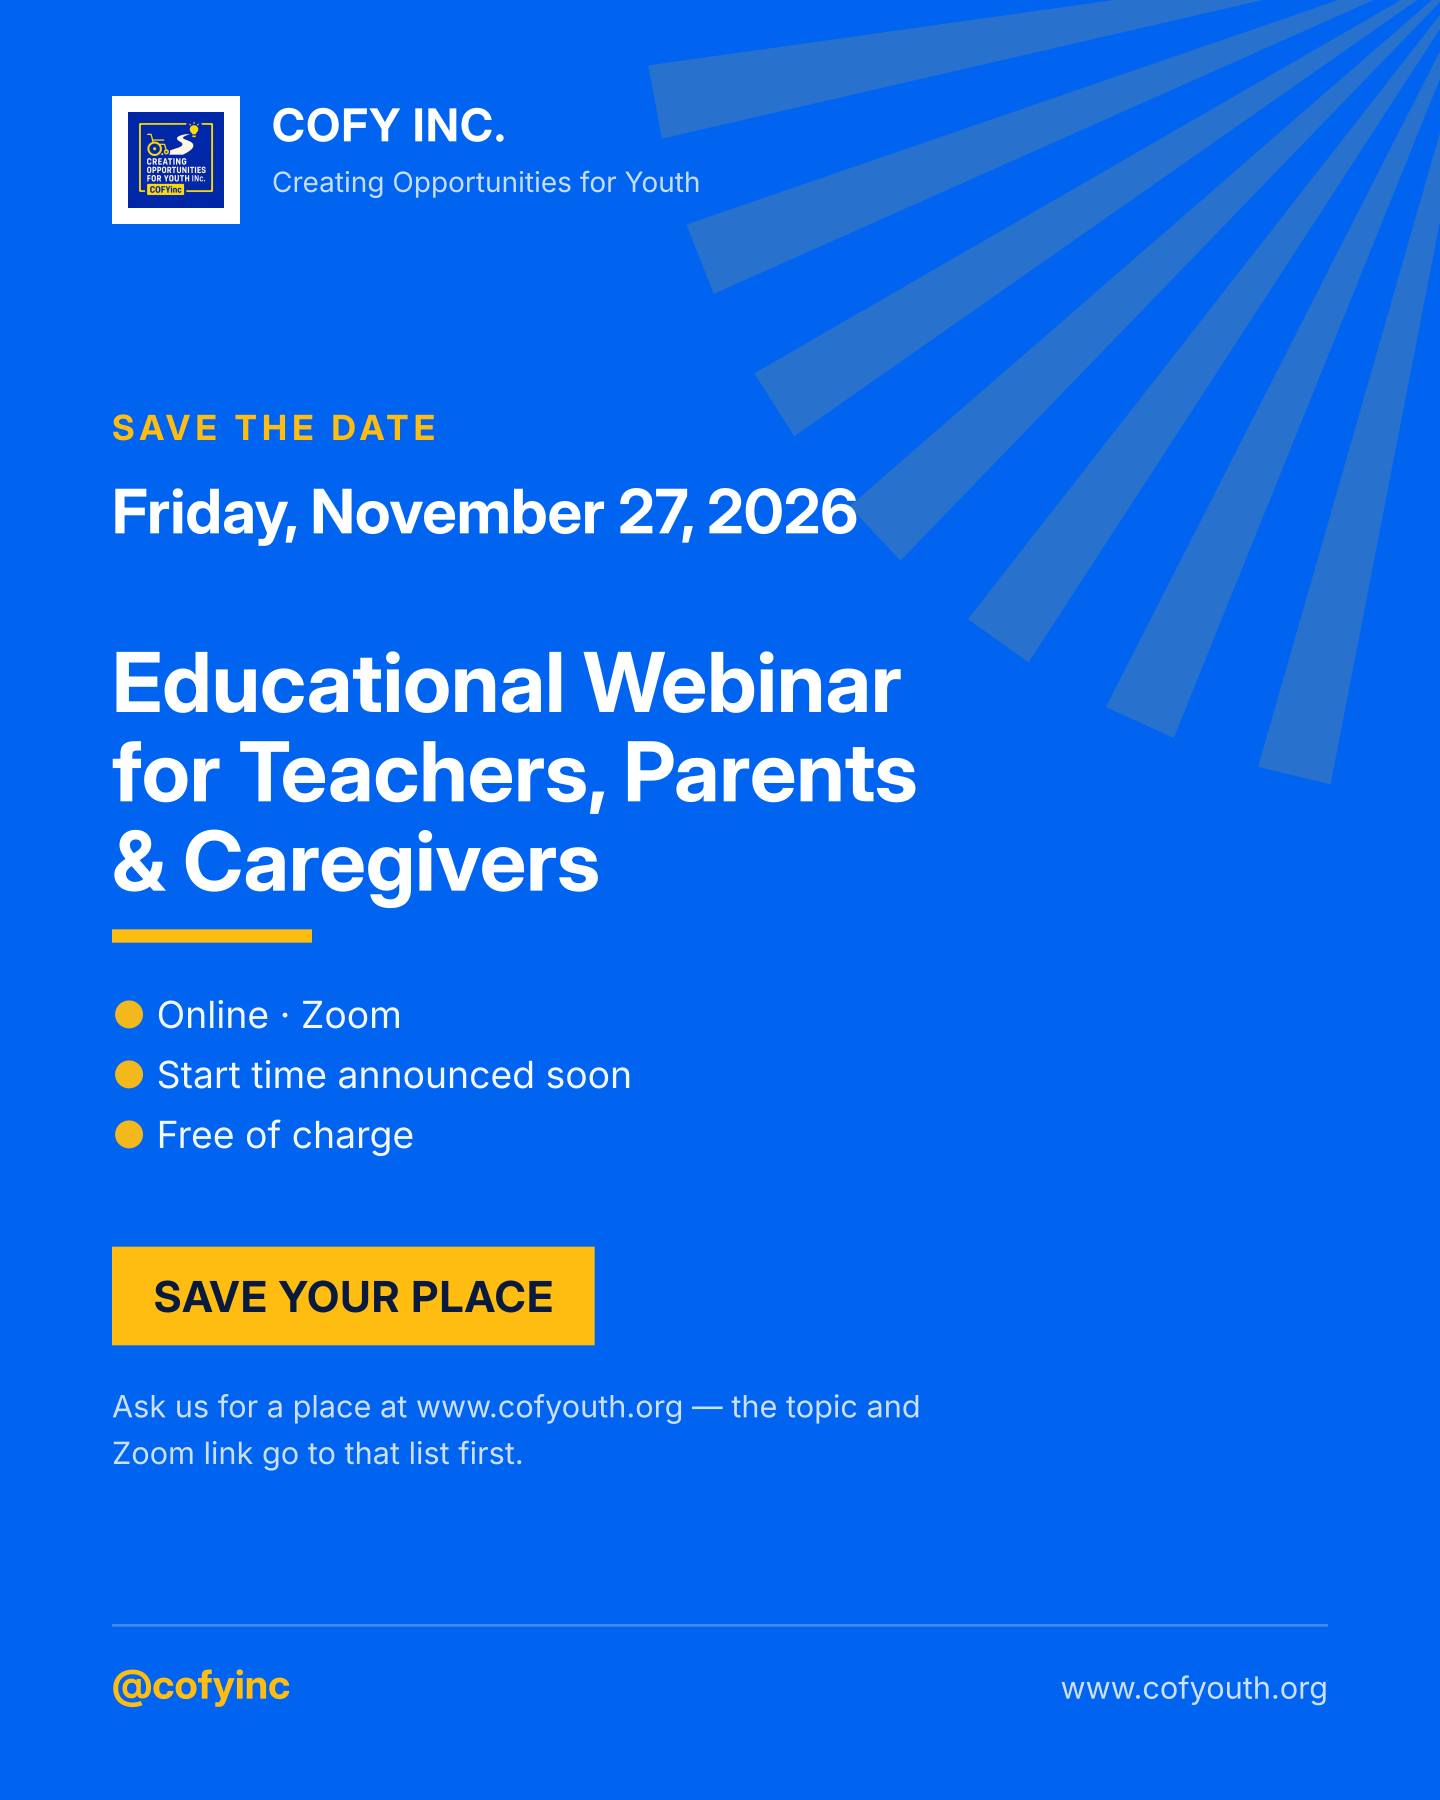
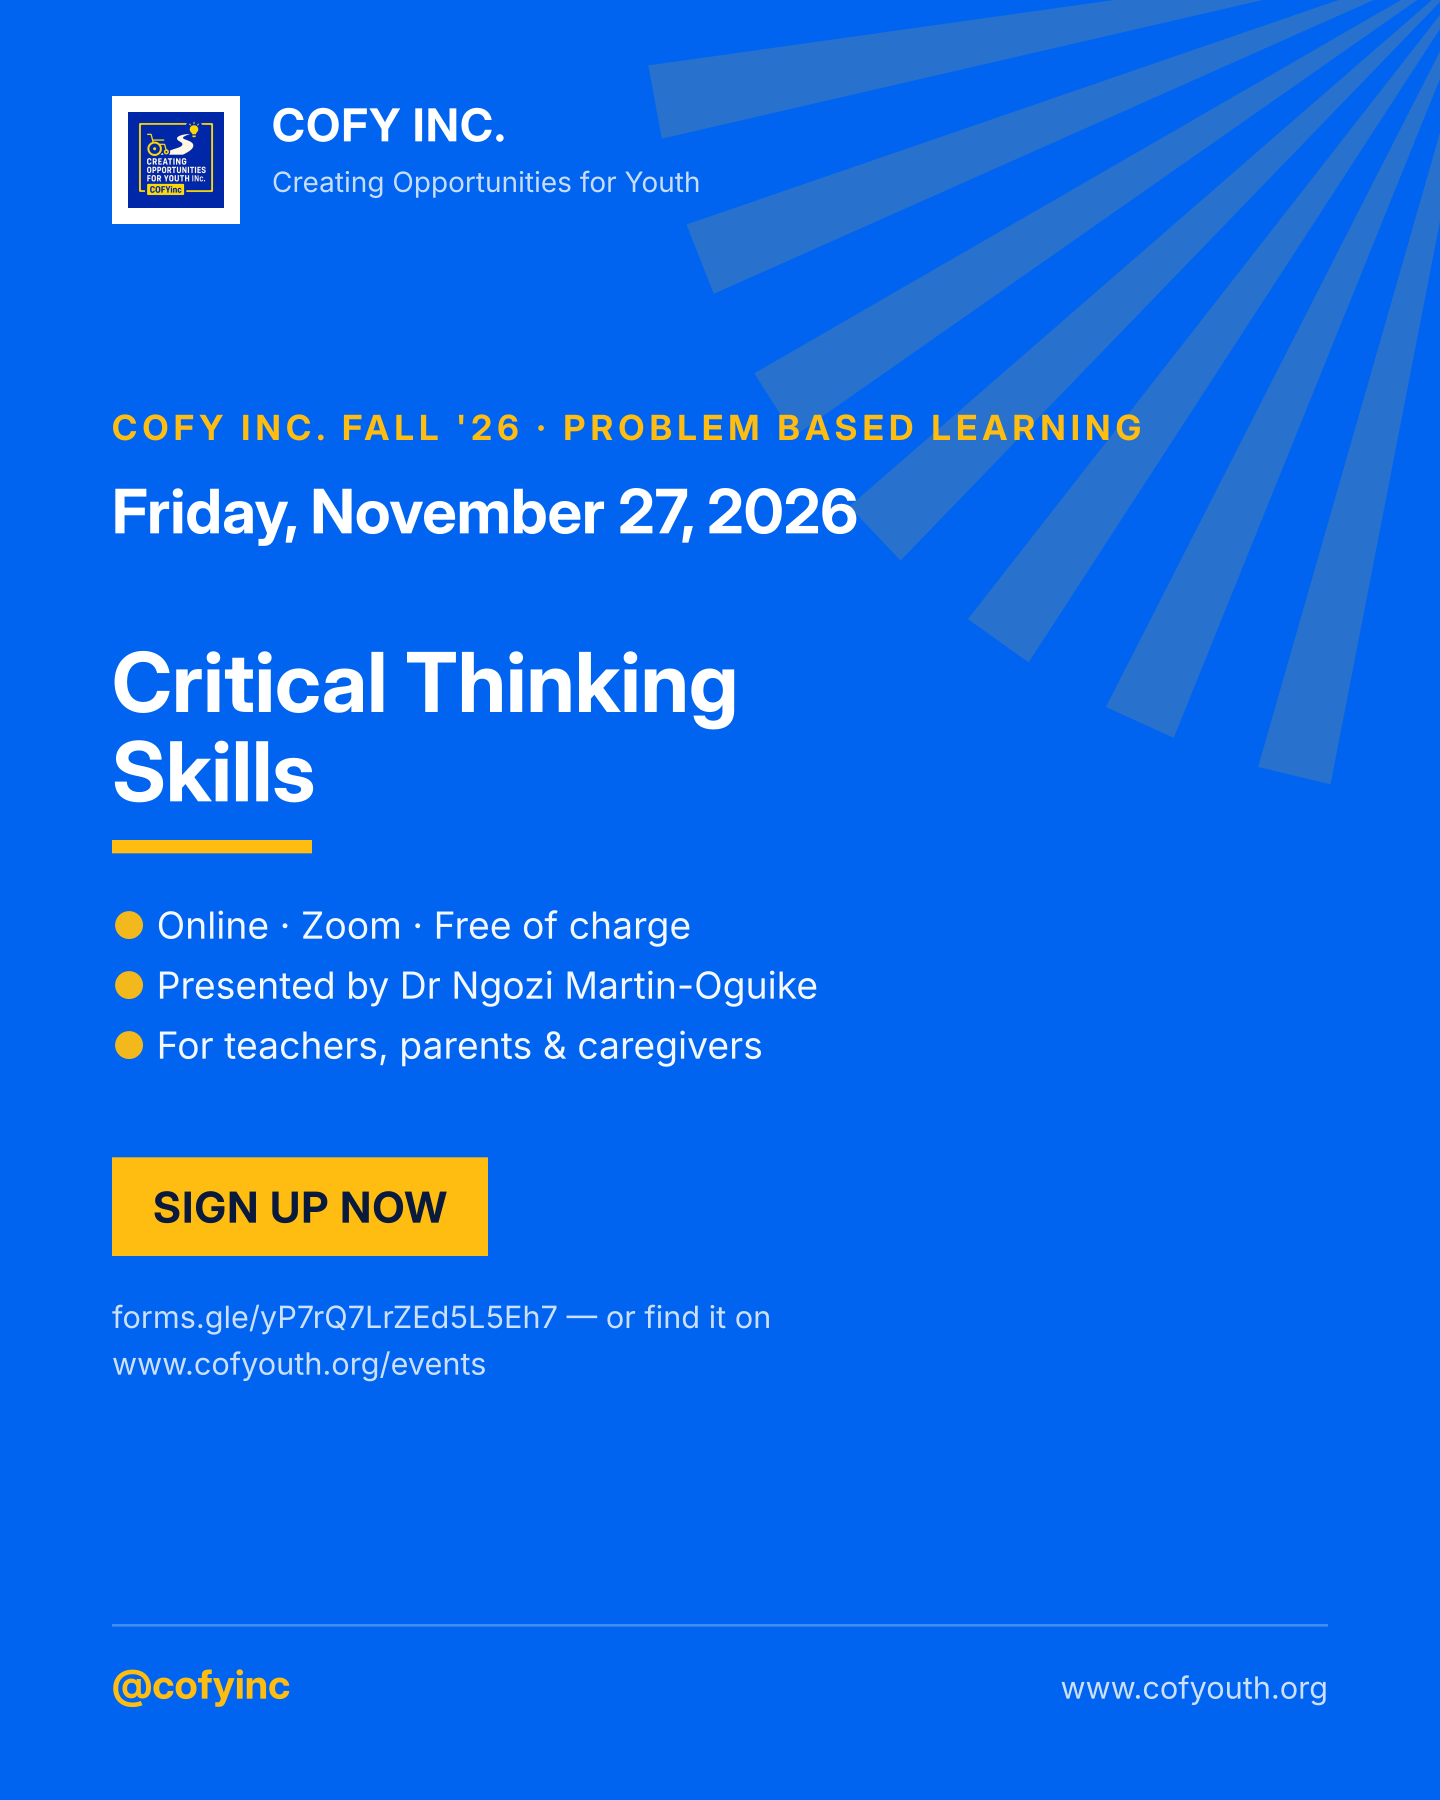
Use the official flyer and details for the Nov 27 webinar (#38)
* Redesign COFY website with interactive multi-page experience

Replace the blank Lovable scaffold with a complete, brand-aligned redesign
for Creating Opportunities for Youth Inc. (COFY).

Brand & design system
- New HSL design tokens built from the logo: royal cobalt blue + golden
  yellow + white, with brand color scale, Poppins/Inter fonts, gradients,
  and fade/float/marquee animations in Tailwind config.
- Logo featured prominently in the hero, header, footer, About page,
  404 page, and as the favicon/OG image.

Pages & routing
- Home: animated hero with floating stat badges, animated impact counters,
  values, programs, media + events previews, testimonials, and CTAs.
- About, Programs, Media Hub, Events, Get Involved, and Contact pages wired
  through a shared Layout (sticky header w/ mobile sheet nav, footer with
  newsletter signup, scroll-to-top).

Requested media & events section
- Media Hub with filterable Daily Vlogs / Blog / News, a featured vlog,
  and rich media cards.
- Events page with Upcoming / Past tabs and date-chip event cards.

Interactivity
- Scroll-reveal animations, animated stat counters, media/event filters,
  an interactive donation card (one-time/monthly, amount picker, live
  impact), and toast-backed newsletter/volunteer/contact forms.

Claude-Session: https://claude.ai/code/session_01UYrY5J4J7BNpy6VLUXWFpk

* Add GitHub Pages deployment workflow

Build and deploy the site to GitHub Pages on every push to main.
[…]

Changed region(s): [[0.0625, 0.3422, 0.625, 0.8089], [0.0625, 0.2178, 0.7812, 0.2489], [0.5, 0.7778, 0.625, 0.8089]]

diff --git a/src/data/events.ts b/src/data/events.ts
@@ -14,6 +14,10 @@ export type COFYEvent = {
   featured?: boolean;
   /** Promo film shown in the lead slot instead of a photo. */
   video?: string;
+  /** The event's own artwork (its flyer), shown in the lead slot. */
+  image?: string;
+  /** Description of that artwork, for people using a screen reader. */
+  imageAlt?: string;
   /**
    * Recap film for an event that has happened, shown as a highlight.
    * A Google Drive embed URL, so the full-resolution footage streams
@@ -120,16 +124,20 @@ export const events: COFYEvent[] = [
   },
   {
     id: "webinar-2026-11-27",
-    title: "Quarterly Educational Webinar for Teachers, Parents & Caregivers",
+    title: "Critical Thinking Skills — Fall '26 Educational Webinar",
     date: "2026-11-27",
     time: "Time to be announced",
     location: "Online (Zoom)",
     venue: "Virtual",
     description:
-      "The next webinar in our quarterly series for the people who support our youth — practical, research-based strategies from experienced educators, for teachers, parents and caregivers. Free of charge, like every COFY event. The session topic, start time and Zoom link are confirmed closer to the date — ask us to be added to the list and we will send them to you first.",
+      "Our Fall '26 educational webinar, presented by Dr Ngozi Martin-Oguike. Theme: Problem Based Learning. Topic: Critical Thinking Skills. Part of our quarterly webinar series for teachers, parents and caregivers, free of charge like every COFY event. Sign up below and we will send you the joining details.",
     category: "Workshop",
     gradient: "from-brand-blue to-brand-blue-dark",
+    registerUrl: "https://forms.gle/yP7rQ7LrZEd5L5Eh7",
     featured: true,
+    image: `${import.meta.env.BASE_URL}media/webinar-2026-11-27.webp`,
+    imageAlt:
+      "COFY Inc. Fall '26 webinar flyer: theme Problem Based Learning, topic Critical Thinking Skills, presented by Dr Ngozi Martin-Oguike, November 27th 2026",
   },
   // Past events
   {

diff --git a/src/components/events/FeaturedEvent.tsx b/src/components/events/FeaturedEvent.tsx
@@ -12,10 +12,11 @@ const categoryPhoto: Record<COFYEvent["category"], PhotoKey> = {
 };
 
 /**
- * Media for the lead event slot: its promo film when it has one,
- * otherwise a photo of that kind of event. The film keeps its own
- * portrait shape and only loads metadata until the visitor plays it,
- * so the page stays light and the audio works when they choose to.
+ * Media for the lead event slot, in order of preference: the event's
+ * promo film, then its own artwork (the flyer), then a photo of that
+ * kind of event. The film keeps its own portrait shape and only loads
+ * metadata until the visitor plays it, so the page stays light and the
+ * audio works when they choose to.
  */
 export function FeaturedEvent({ event }: { event: COFYEvent }) {
   const photo = photos[categoryPhoto[event.category]];
@@ -32,6 +33,22 @@ export function FeaturedEvent({ event }: { event: COFYEvent }) {
           aria-label={`Promotional film for ${event.title}`}
         />
         <Badge className="pointer-events-none absolute left-4 top-4 gap-1.5 border-0 bg-secondary font-bold text-secondary-foreground">
+          Happening next · {event.category}
+        </Badge>
+      </div>
+    );
+  }
+
+  if (event.image) {
+    return (
+      <div className="relative overflow-hidden bg-brand-blue-deep">
+        <img
+          src={event.image}
+          alt={event.imageAlt ?? `Flyer for ${event.title}`}
+          loading="eager"
+          className="aspect-square w-full max-w-full object-cover"
+        />
+        <Badge className="absolute left-4 top-4 gap-1.5 border-0 bg-secondary font-bold text-secondary-foreground">
           Happening next · {event.category}
         </Badge>
       </div>

diff --git a/docs/webinar-2026-11-27-promo.md b/docs/webinar-2026-11-27-promo.md
@@ -1,25 +1,33 @@
-# November 27 webinar — promotion pack
+# Critical Thinking Skills — promotion pack
 
-Everything here is ready to publish **as a save-the-date**. Three details were
-not available when this was written — the session topic, the start time (and
-time zone) and the registration/Zoom link. They are marked `[TOPIC]`,
-`[TIME]` and `[LINK]` below. Fill those three in and the pack is a full
-announcement; nothing else needs rewriting.
+**COFY Inc. Fall '26 Educational Webinar**
+Theme: Problem Based Learning · Topic: Critical Thinking Skills
+Presented by Dr Ngozi Martin-Oguike
+Friday, 27 November 2026 · Online (Zoom) · Free of charge
+Sign-up: <https://forms.gle/yP7rQ7LrZEd5L5Eh7>
+
+The start time is not on the flyer, so nothing here states one. When it is
+set, add it to `time` in `src/data/events.ts` and to the posts below.
 
 ## The graphics
 
+The official flyer is square and is the primary post image on Instagram and
+Facebook. It is on the site as the event's artwork and at
+`https://www.cofyouth.org/media/webinar-2026-11-27.jpg`.
+
+These three are brand-matched companions, mainly for the places a square
+flyer does not fit:
+
 | Where | File | Size |
 |---|---|---|
-| Instagram feed, Threads | `public/media/promo/instagram-4x5.png` | 1080 × 1350 |
-| Facebook, WhatsApp, square posts | `public/media/promo/square-1x1.png` | 1080 × 1080 |
-| LinkedIn, X link card | `public/media/promo/linkedin-16x9.png` | 1200 × 627 |
+| Instagram feed / story backdrop | `public/media/promo/instagram-4x5.png` | 1080 × 1350 |
+| Square alternative | `public/media/promo/square-1x1.png` | 1080 × 1080 |
+| **LinkedIn & X link card** | `public/media/promo/linkedin-16x9.png` | 1200 × 627 |
 
-Once the site is deployed they are also downloadable from any phone at
-`https://www.cofyouth.org/media/promo/instagram-4x5.png` (and the same for the
-other two file names).
+Also at `https://www.cofyouth.org/media/promo/linkedin-16x9.png`, etc.
 
-To re-render them after the details land, edit
-`automation/promo/webinar-2026-11-27.json` and run:
+To re-render after a change, edit `automation/promo/webinar-2026-11-27.json`
+and run:
 
 ```
 node scripts/promo/render-event.mjs automation/promo/webinar-2026-11-27.json public/media/promo
@@ -27,35 +35,44 @@ node scripts/promo/render-event.mjs automation/promo/webinar-2026-11-27.json pub
 
 ## Instagram — @cofyinc
 
-> Save the date. 📅
+Post the flyer as the image.
+
+> Critical thinking isn't a subject on the timetable. It's what decides
+> whether a young person can meet a problem they've never seen before and
+> still find a way in.
 >
-> Friday, November 27, 2026 — our next Educational Webinar for Teachers,
-> Parents & Caregivers. Online, on Zoom, and free of charge, like everything
-> COFY does.
+> That's our Fall '26 webinar. 📅 Friday, November 27, 2026.
 >
-> This is the quarterly session for the people who do the daily work of
-> supporting a young person: the teacher adapting a lesson, the parent
-> advocating at an IEP meeting, the caregiver holding the routine together.
-> Practical, research-based strategies from educators who have done it.
+> Theme: Problem Based Learning
+> Topic: Critical Thinking Skills
+> Presented by Dr Ngozi Martin-Oguike
+> Online on Zoom — free of charge, like everything COFY does.
 >
-> Ask us to be added to the list and you'll get the topic and the Zoom link
-> first — link in bio, or www.cofyouth.org
+> It's built for the adults doing the daily work: the teacher adapting a
+> lesson for a class of thirty, the parent getting ready for an IEP meeting,
+> the caregiver holding the routine together. You spend your days helping
+> someone else think. Come and take something for yourself.
+>
+> Sign up — link in bio 🔗
+> forms.gle/yP7rQ7LrZEd5L5Eh7
 >
 > Helping Together. (2 Corinthians 1:11)
 >
-> #COFYinc #CreatingOpportunitiesForYouth #SpecialEducation
-> #InclusiveEducation #Neurodiversity #ParentSupport #Caregivers #Teachers
-> #ProfessionalDevelopment #FreeWebinar #SaveTheDate #NewJersey #Nonprofit
+> #COFYinc #CreatingOpportunitiesForYouth #CriticalThinking
+> #ProblemBasedLearning #SpecialEducation #InclusiveEducation #Neurodiversity
+> #Teachers #ParentSupport #Caregivers #ProfessionalDevelopment #FreeWebinar
+> #NewJersey #Nonprofit
 
-**Story / Reel cover text:** `SAVE THE DATE · NOV 27 · FREE WEBINAR` over the
-4:5 graphic, with a link sticker to www.cofyouth.org/events.
+**Story / Reel cover:** `FALL '26 · CRITICAL THINKING SKILLS · NOV 27 · FREE`
+over the flyer, with a link sticker to the sign-up form.
 
 ## LinkedIn — COFY company page
 
-> **Save the date: Friday, November 27, 2026.**
+Use the 1200 × 627 card so the post renders as a proper landscape image.
+
+> **Critical Thinking Skills — COFY Inc. Fall '26 Educational Webinar**
 >
-> COFY's next quarterly Educational Webinar for Teachers, Parents and
-> Caregivers is online, on Zoom, and free of charge.
+> Friday, 27 November 2026 · Online (Zoom) · Free of charge
 >
 > Most conversations about supporting youth with developmental delays focus
 > on the young person. This series is deliberately about the adults around
@@ -64,58 +81,58 @@ node scripts/promo/render-event.mjs automation/promo/webinar-2026-11-27.json pub
 > steady. They are the people who turn a good plan into a good day, and they
 > are rarely the ones being trained.
 >
-> Each session brings practical, research-based strategies from educators who
-> have worked in inclusive classrooms, with time for real questions.
+> This term's theme is Problem Based Learning, and the session is on building
+> critical thinking skills. It is presented by Dr Ngozi Martin-Oguike.
 >
-> [TOPIC — one or two lines on the session subject]
-> 🗓 Friday, November 27, 2026 · [TIME]
+> 🗓 Friday, 27 November 2026
 > 💻 Online (Zoom)
 > 💛 Free of charge
-> 🔗 [LINK]
+> 🔗 Sign up: https://forms.gle/yP7rQ7LrZEd5L5Eh7
 >
 > Creating Opportunities for Youth Inc. is a registered nonprofit in New
 > Jersey supporting youth with developmental delays and their families. Every
 > event and service we run is free to the people who attend.
 >
-> #SpecialEducation #InclusiveEducation #Neurodiversity #ProfessionalDevelopment
-> #Nonprofit #Education #Caregivers #NewJersey
+> #SpecialEducation #InclusiveEducation #Neurodiversity #CriticalThinking
+> #ProblemBasedLearning #ProfessionalDevelopment #Nonprofit #Education
+> #Caregivers #NewJersey
 
-**Personal re-share** (post from your own profile, quoting the page post):
+**Personal re-share** (from your own profile, quoting the page post):
 
 > The part of this work people don't see is how little support the supporting
 > adults get. That's who our November 27 webinar is for — teachers, parents
-> and caregivers, free, online. If you know someone doing that work quietly,
-> send it to them.
+> and caregivers, free, online, on building critical thinking skills. If you
+> know someone doing that work quietly, send it to them.
 
 ## Facebook
 
-> 📅 SAVE THE DATE — Friday, November 27, 2026
+> 📅 Friday, November 27, 2026 — COFY Inc. Fall '26 Educational Webinar
 >
-> Our next Educational Webinar for Teachers, Parents & Caregivers is online
-> on Zoom, and it's free, like every COFY event.
+> Theme: Problem Based Learning
+> Topic: **Critical Thinking Skills**
+> Presented by Dr Ngozi Martin-Oguike
+> Online on Zoom, and free, like every COFY event.
 >
-> Practical strategies from experienced educators, for the people who support
-> our youth every day. [TOPIC]
+> For teachers, parents and caregivers supporting a young person who learns
+> differently.
 >
-> ⏰ [TIME]
-> 🔗 Save your place: [LINK]
->
+> 🔗 Sign up: https://forms.gle/yP7rQ7LrZEd5L5Eh7
 > More at www.cofyouth.org/events
 
 ## WhatsApp / email one-liner
 
-> COFY's free Educational Webinar for Teachers, Parents & Caregivers is on
-> Friday, November 27, 2026, on Zoom. [TIME] — save your place here: [LINK]
-> Please pass it on to anyone supporting a young person with developmental
-> delays.
+> COFY's free Fall '26 webinar — *Critical Thinking Skills*, presented by
+> Dr Ngozi Martin-Oguike — is on Friday, November 27, 2026, on Zoom. Sign up:
+> https://forms.gle/yP7rQ7LrZEd5L5Eh7 · Please pass it on to anyone
+> supporting a young person with developmental delays.
 
 ## Suggested run-up
 
 | When | What |
 |---|---|
-| Now | Save-the-date graphic on Instagram, LinkedIn and Facebook |
-| As soon as topic + time + link are set | Re-render the graphics and post the full announcement |
-| One week before | Reminder post + Instagram story with the link sticker |
-| Day before | Story reminder, and email the list the Zoom link |
-| Day of | Morning story: "Tonight / today at [TIME] — last chance to join" |
+| Now | Flyer on Instagram and Facebook; landscape card on LinkedIn |
+| When the start time is set | Update the site and re-post with the time |
+| One week before | Reminder post + Instagram story with the sign-up link sticker |
+| Day before | Story reminder, and email the Zoom link to everyone who signed up |
+| Day of | Morning story: "Today — last chance to join" |
 | After | Thank-you post; add the recording to the Events page if one is made |
